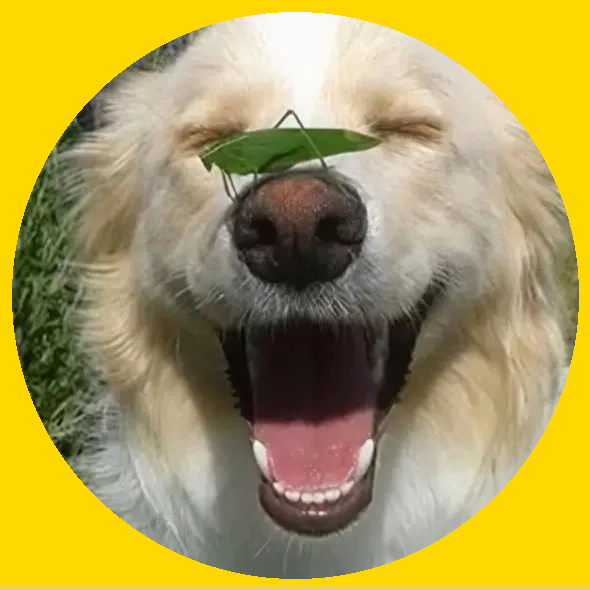
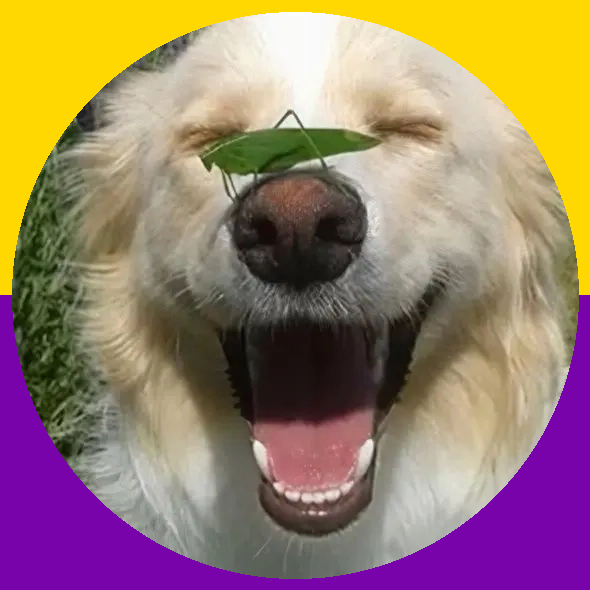
feat: ring support for special flags

Changed region(s): [[0.0, 0.4881, 1.0, 1.0]]

diff --git a/src/lib.rs b/src/lib.rs
@@ -5,7 +5,7 @@ pub use flags::Flag;
 pub use opacity::Opacity;
 
 use flags::FlagData;
-use image::{DynamicImage, Rgba, RgbaImage, imageops::overlay};
+use image::{DynamicImage, GenericImageView, Rgba, RgbaImage, imageops::overlay};
 use imageproc::{
     drawing::{draw_filled_circle_mut, draw_filled_rect_mut},
     rect::Rect,
@@ -15,92 +15,103 @@ mod colour;
 mod flags;
 mod opacity;
 
-fn draw<F>(flag: &Flag, image: &mut DynamicImage, opacity: Opacity, mut flag_transform: Option<F>)
-where
-    F: for<'a> FnMut(&'a mut RgbaImage, u32, u32),
-{
-    let image_rgba = image.to_rgba8();
-    let (width, height) = image_rgba.dimensions();
+/// Creates a flag overlay image with the specified dimensions and opacity
+fn create_flag_overlay(flag: &Flag, width: u32, height: u32, opacity: Opacity) -> RgbaImage {
+    let alpha = opacity.get_raw();
 
-    // draw flag
-    let a = opacity.get_raw();
-    let mut flag_image = match flag.data() {
-        FlagData::Colours(colours) => {
-            let mut flag_image = RgbaImage::new(width, height);
+    match flag.data() {
+        FlagData::Special(data, _) => create_special_flag_overlay(data, width, height, alpha),
+        FlagData::Colours(colours) => create_stripe_flag_overlay(colours, width, height, alpha),
+    }
+}
 
-            let colour_size = height / colours.len() as u32;
+/// Creates an overlay from special flag image data
+fn create_special_flag_overlay(data: &[u8], width: u32, height: u32, alpha: u8) -> RgbaImage {
+    let mut flag_image = image::load_from_memory(data)
+        .expect("Failed to load flag image data")
+        .resize_to_fill(width, height, image::imageops::FilterType::Nearest)
+        .to_rgba8();
 
-            colours
-                .iter()
-                .enumerate()
-                .for_each(|(i, &Colour { r, g, b })| {
-                    let y_start = (i as u32 * colour_size) as i32;
-                    let rect = Rect::at(0, y_start).of_size(width, colour_size);
-                    let colour = Rgba([r, g, b, a]);
-                    draw_filled_rect_mut(&mut flag_image, rect, colour);
-                });
+    // Apply opacity to all pixels
+    flag_image.pixels_mut().for_each(|pixel| {
+        pixel[3] = alpha;
+    });
 
-            flag_image
-        }
-        FlagData::Image(data) => {
-            let mut flag_image = image::load_from_memory(data)
-                .expect("failed to load flag image")
-                .resize_to_fill(width, height, image::imageops::FilterType::Nearest)
-                .to_rgba8();
+    flag_image
+}
 
-            for pixel in flag_image.pixels_mut() {
-                pixel[3] = a;
-            }
+/// Creates a horizontal stripe flag overlay from colors
+fn create_stripe_flag_overlay(colours: &[Colour], width: u32, height: u32, alpha: u8) -> RgbaImage {
+    let mut flag_image = RgbaImage::new(width, height);
+    let stripe_height = height / colours.len() as u32;
 
-            flag_image
-        }
-    };
-
-    // transform flag
-    if let Some(ref mut trans_fn) = flag_transform {
-        trans_fn(&mut flag_image, width, height);
+    for (i, &Colour { r, g, b }) in colours.iter().enumerate() {
+        let y_start = (i as u32 * stripe_height) as i32;
+        let rect = Rect::at(0, y_start).of_size(width, stripe_height);
+        let colour = Rgba([r, g, b, alpha]);
+        draw_filled_rect_mut(&mut flag_image, rect, colour);
     }
 
-    overlay(image, &flag_image, 0, 0);
+    flag_image
+}
+
+/// Calculates the ring thickness offset in pixels
+fn calculate_ring_offset(thickness: Option<u32>) -> u32 {
+    const MAX_THICKNESS: u32 = 10;
+    const THICKNESS_MULTIPLIER: u32 = 8;
+    const DEFAULT_OFFSET: u32 = 12;
+
+    thickness
+        .map(|t| t.min(MAX_THICKNESS) * THICKNESS_MULTIPLIER)
+        .unwrap_or(DEFAULT_OFFSET)
+}
+
+/// Extracts colors from flag data, regardless of variant
+fn extract_flag_colours(flag_data: FlagData) -> &'static [Colour] {
+    match flag_data {
+        FlagData::Special(_, colours) | FlagData::Colours(colours) => colours,
+    }
 }
 
 impl Flag {
     /// Overlays the flag onto the given image. The image is modified in place.
     ///
-    /// #### Implementation Details
-    /// The `opacity` parameter controls the transparency of the flag overlay.
-    /// If [None], the default opacity of 50% is used.
+    /// # Arguments
+    /// * `image` - The target image to overlay the flag onto
+    /// * `opacity` - Controls the transparency of the flag overlay. Uses 50% if [None].
     pub fn overlay(&self, image: &mut DynamicImage, opacity: Option<Opacity>) {
-        draw(
-            self,
-            image,
-            opacity.unwrap_or_default(),
-            None::<fn(&mut RgbaImage, u32, u32)>,
-        )
+        let (width, height) = image.dimensions();
+        let opacity = opacity.unwrap_or_default();
+        let flag_overlay = create_flag_overlay(self, width, height, opacity);
+
+        overlay(image, &flag_overlay, 0, 0);
     }
 
     /// Draws a ring around the image using the flag's colours. The image is modified in place.
     ///
-    /// #### Implementation Details
-    /// The `opacity` parameter controls the transparency of the ring.
-    /// If [None], the default opacity of 100% is used.
+    /// # Arguments
+    /// * `image` - The target image to draw the ring on
+    /// * `opacity` - Controls the transparency of the ring. Uses 100% if [None].
+    /// * `thickness` - Ring thickness (1-10, multiplied by 8). Uses 12 pixels if [None].
     ///
-    /// The ring thickness is calculated as an offset from the image edge:
-    /// - When thickness is specified: offset = min(thickness, 10) * 8 (capped at 80 pixels)
-    /// - When thickness is [None]: offset = 12 pixels (default)
+    /// # Ring Calculation
+    /// - Offset = min(thickness, 10) * 8 (capped at 80 pixels) or 12 (default)
     /// - Inner radius = (image_width / 2) - offset
     pub fn ring(&self, image: &mut DynamicImage, opacity: Option<Opacity>, thickness: Option<u32>) {
+        let (width, height) = image.dimensions();
         let opacity = opacity.unwrap_or(Opacity::OPAQUE);
 
-        let transform = |image: &mut RgbaImage, width: u32, height: u32| {
-            let center = ((width / 2) as i32, (height / 2) as i32);
-            let offset = thickness
-                .map(|thickness| thickness.min(10) * 8)
-                .unwrap_or(12);
-            let radius = (width / 2).saturating_sub(offset) as i32;
-            draw_filled_circle_mut(image, center, radius, Rgba([0, 0, 0, 0]));
-        };
+        // create ring overlay using flag colours
+        let colours = extract_flag_colours(self.data());
+        let ring_flag = Flag::Custom(colours);
+        let mut ring_overlay = create_flag_overlay(&ring_flag, width, height, opacity);
 
-        draw(self, image, opacity, Some(transform))
+        // cut out the inner circle to create a ring effect
+        let center = ((width / 2) as i32, (height / 2) as i32);
+        let offset = calculate_ring_offset(thickness);
+        let inner_radius = (width / 2).saturating_sub(offset) as i32;
+
+        draw_filled_circle_mut(&mut ring_overlay, center, inner_radius, Rgba([0, 0, 0, 0]));
+        overlay(image, &ring_overlay, 0, 0);
     }
 }

diff --git a/flaggen/src/lib.rs b/flaggen/src/lib.rs
@@ -1,3 +1,6 @@
+// todo: refactor and make dry
+// this code sucks lmao
+
 use parse::{Definitions, FlagDefinition};
 use proc_macro::TokenStream;
 use quote::{format_ident, quote};
@@ -17,25 +20,38 @@ pub fn generate_flags(input: TokenStream) -> TokenStream {
 
     let flag_consts = flags.iter().map(|flag| {
         let name = &flag.name;
-        let const_name = format_ident!("{}_DATA", name.to_string().to_uppercase());
+        let colour_const = format_ident!("{}_COLOURS", name.to_string().to_uppercase());
 
-        match &flag.definition {
-            FlagDefinition::Path(path) => {
-                let path = format!("../flags/{path}");
-                quote! {
-                    const #const_name: &'static [u8] = include_bytes!(#path);
-                }
-            }
-            FlagDefinition::Colors(colours) => {
-                let colours = colours.iter().map(|c| {
+        let process_colours = |colours: &[parse::Colour]| {
+            colours
+                .iter()
+                .map(|c| {
                     let r = c.r;
                     let g = c.g;
                     let b = c.b;
                     quote! { crate::Colour::new(#r, #g, #b) }
-                });
+                })
+                .collect::<Vec<_>>()
+        };
+
+        match &flag.definition {
+            FlagDefinition::Special(path, colours) => {
+                let path = format!("../flags/{path}");
+                let data_const = format_ident!("{}_DATA", name.to_string().to_uppercase());
+                let colours = process_colours(colours);
 
                 quote! {
-                    const #const_name: &'static [crate::Colour] = &[
+                    const #data_const: &'static [u8] = include_bytes!(#path);
+                    const #colour_const: &'static [crate::Colour] = &[
+                        #(#colours),*
+                    ];
+                }
+            }
+            FlagDefinition::Colors(colours) => {
+                let colours = process_colours(colours);
+
+                quote! {
+                    const #colour_const: &'static [crate::Colour] = &[
                         #(#colours),*
                     ];
                 }
@@ -45,17 +61,18 @@ pub fn generate_flags(input: TokenStream) -> TokenStream {
 
     let flag_data_matches = flags.iter().map(|flag| {
         let name = &flag.name;
-        let const_name = format_ident!("{}_DATA", name.to_string().to_uppercase());
+        let colour_const = format_ident!("{}_COLOURS", name.to_string().to_uppercase());
 
         match &flag.definition {
-            FlagDefinition::Path(_) => {
+            FlagDefinition::Special(_, _) => {
+                let data_const = format_ident!("{}_DATA", name.to_string().to_uppercase());
                 quote! {
-                    Flag::#name => FlagData::Image(#const_name)
+                    Flag::#name => FlagData::Special(#data_const, #colour_const)
                 }
             }
             FlagDefinition::Colors(_) => {
                 quote! {
-                    Flag::#name => FlagData::Colours(#const_name)
+                    Flag::#name => FlagData::Colours(#colour_const)
                 }
             }
         }

diff --git a/flaggen/src/parse.rs b/flaggen/src/parse.rs
@@ -14,17 +14,17 @@ pub struct Flag {
 }
 
 pub enum FlagDefinition {
-    Colors(Vec<Color>),
-    Path(String),
+    Colors(Vec<Colour>),
+    Special(String, Vec<Colour>),
 }
 
-pub struct Color {
+pub struct Colour {
     pub r: u8,
     pub g: u8,
     pub b: u8,
 }
 
-impl Parse for Color {
+impl Parse for Colour {
     fn parse(input: ParseStream) -> Result<Self> {
         let content;
         syn::parenthesized!(content in input);
@@ -35,7 +35,7 @@ impl Parse for Color {
         content.parse::<Token![,]>()?;
         let b: LitInt = content.parse()?;
 
-        Ok(Color {
+        Ok(Colour {
             r: r.base10_parse()?,
             g: g.base10_parse()?,
             b: b.base10_parse()?,
@@ -53,9 +53,11 @@ impl Parse for Definitions {
 
             let definition = if input.peek(LitStr) {
                 let path: LitStr = input.parse()?;
-                FlagDefinition::Path(path.value())
+                let colours: Punctuated<Colour, Token![,]> =
+                    Punctuated::parse_separated_nonempty(input)?;
+                FlagDefinition::Special(path.value(), colours.into_iter().collect())
             } else {
-                let colours: Punctuated<Color, Token![,]> =
+                let colours: Punctuated<Colour, Token![,]> =
                     Punctuated::parse_separated_nonempty(input)?;
                 FlagDefinition::Colors(colours.into_iter().collect())
             };

diff --git a/src/flags.rs b/src/flags.rs
@@ -1,13 +1,13 @@
 use crate::Colour;
 
-pub enum FlagData {
+pub(crate) enum FlagData {
     Colours(&'static [Colour]),
-    Image(&'static [u8]),
+    Special(&'static [u8], &'static [Colour]),
 }
 
 flaggen::generate_flags! {
     Rainbow: (229, 0, 0), (255, 141, 0), (255, 238, 0), (2, 129, 33), (0, 76, 255), (119, 0, 136)
     Transgender: (91, 207, 251), (245, 171, 185), (255, 255, 255), (245, 171, 185), (91, 207, 251)
 
-    Intersex: "intersex.webp"
+    Intersex: "intersex.webp" (254, 216, 0), (121, 3, 170)
 }
